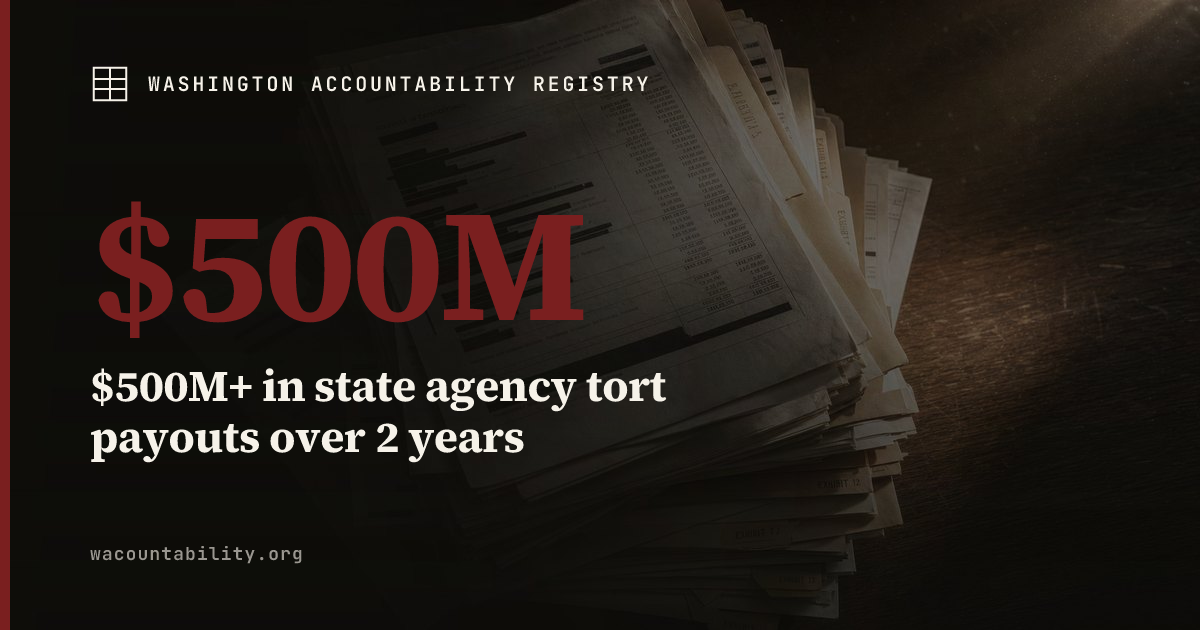
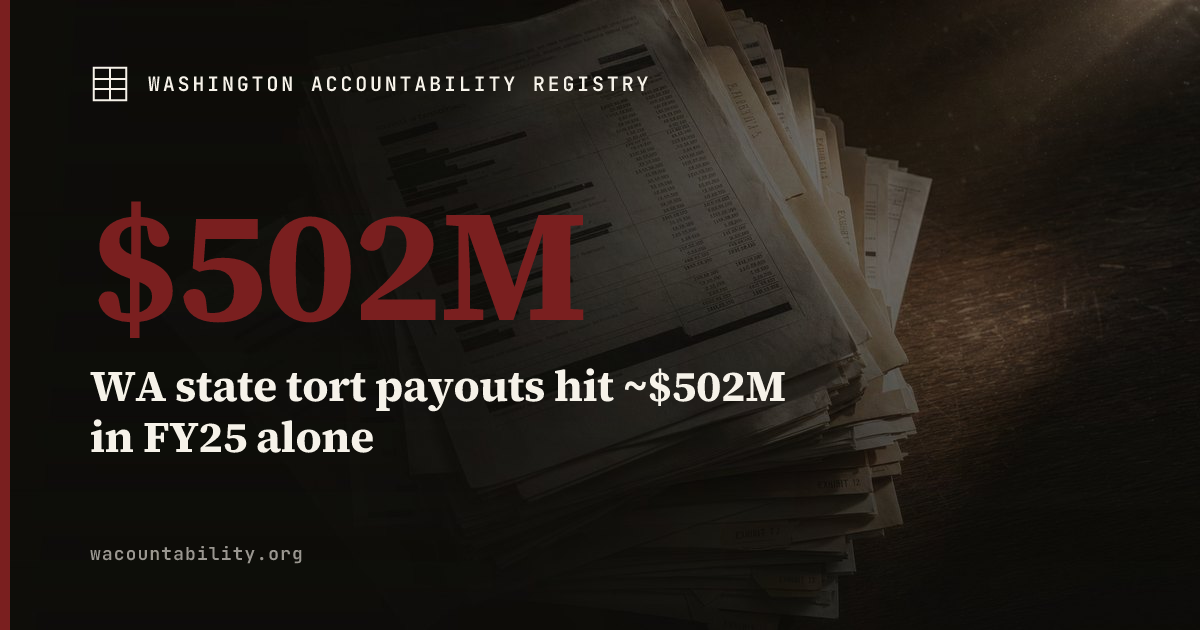
Rewrite WA-2025-TORT-AGGREGATE with FY25 ~$502M lead, $2.5B pending liability, HB 2706 claims commission

Changed region(s): [[0.0617, 0.573, 0.6783, 0.7238], [0.2775, 0.3317, 0.37, 0.5127]]

diff --git a/src/content/cases/2025-state-agency-tort-payouts-aggregate.md b/src/content/cases/2025-state-agency-tort-payouts-aggregate.md
@@ -1,13 +1,13 @@
 ---
 # === IDENTITY ===
 id: WA-2025-TORT-AGGREGATE
-title: "$500M+ in state agency tort payouts over 2 years — Gildon report documents 151 DCYF payouts over $1M, 14 DSHS, 9 DOC, 3 WSP"
+title: "WA state tort payouts hit ~$502M in FY25 alone — bigger than FY23+FY24 combined, $2.5B in pending claims, liability account facing $569M shortfall"
 slug: state-agency-tort-payouts-aggregate
 date_surfaced: 2025-01-19
-date_conduct_start: 2023-01-01
-date_conduct_end: 2025-01-01
-last_updated: 2026-05-24
-last_verified: 2026-05-24
+date_conduct_start: 2018-07-01
+date_conduct_end: 2025-06-30
+last_updated: 2026-05-26
+last_verified: 2026-05-26
 
 # === ACTORS ===
 actors:
@@ -31,6 +31,16 @@ actors:
     title: null
     party: null
     jurisdiction: Washington State
+  - name: Washington State Department of Enterprise Services
+    role_type: agency
+    title: null
+    party: null
+    jurisdiction: Washington State
+  - name: Washington State Office of the Attorney General
+    role_type: agency
+    title: null
+    party: null
+    jurisdiction: Washington State
 
 # === CLASSIFICATION ===
 evidentiary_status: documented
@@ -41,24 +51,57 @@ reforms_implicated:
   - agency_liability_disclosure
 
 # === SCALE ===
-dollars_at_issue: 500000000
-dollars_basis: "Sen. Gildon's compilation of state agency tort payouts over the two-year period ending January 2025 totals more than $500 million. The figure represents adjudicated and settled liabilities aggregated across multiple agencies, sourced from Office of Risk Management data underlying SB 5144 oversight legislation. Over the four-year period, agencies paid 151 DCYF claims over $1M, 14 DSHS, 10 DOT, 9 DOC, 3 WSP, 2 each from DNR and Parks and Recreation Commission, and 1 each from the AG's office, Centralia College, and Seattle Central College."
-dollars_confirmed_loss: 500000000
+dollars_at_issue: 502000000
+dollars_basis: "FY25 (year ending June 30, 2025) tort payouts from the state Liability Account reached approximately $502 million as of June 13, 2025, with roughly two weeks remaining in the fiscal year. Scott Barbara of the Washington Attorney General's Office told Spokane Public Radio that FY25 'is going to be bigger than FY 23 and FY 24 combined.' FY24 payouts were approximately $281 million; FY18 was $72 million. Pending actuarial liability for unresolved claims was estimated at $2.5 billion in June 2024. The Department of Enterprise Services is requesting a $569.5 million one-time backfill to cover the projected 2023-25 biennium liability account shortfall, with projected biennial shortfalls of $1.308B-$1.403B (2025-27) and $2.074B-$3.261B (2027-29) if not funded. The lead figure ($502M) is the single-year FY25 payout total; the cumulative two-year FY24+FY25 total is approximately $783 million."
+dollars_confirmed_loss: 502000000
 
 # === STATUS ===
 legal_status: settled
-outcome_summary: "Not a single case — an aggregation of state agency tort payouts compiled by Sen. Chris Gildon (R-Puyallup) from Office of Risk Management data, released publicly January 19, 2025. Gildon introduced SB 5144, requiring legislative hearings when a state agency tort payout reaches $1 million or more. The bill was referred to the Senate Law and Justice Committee. The underlying payouts reflect final, settled or adjudicated liabilities paid from the state Liability Account."
+outcome_summary: "Aggregate pattern across multiple state agencies. FY25 tort payouts (~$502M as of June 13, 2025) exceeded the combined total of the two prior fiscal years per the AG's office. The Department of Enterprise Services 2026 supplemental budget request seeks a $569.5M one-time appropriation to backfill the Liability Account through end of the 2023-25 biennium. HB 2706 (2026 session, Rep. Ormsby by request of OFM) proposes a claims commission within the Office of Administrative Hearings to adjudicate pre-2020 DCYF tort claims, citing a $1.3B-$1.4B shortfall. Sen. Gildon's SB 5144 (2025) and SB 6239 (2025-26) propose oversight hearings and JLARC review respectively. None of the structural fixes have passed."
 
 # === RESOLUTION TRACKING ===
 remediation_status: in_progress
-remediation_note: "No agency-side remediation tracked. The structural follow-up is legislative, see reform field."
+remediation_note: "No agency-side remediation tracked. DES is treating the shortfall as a budget problem (request $569.5M one-time backfill plus ongoing premium increases). OFM is pursuing structural change for the largest single driver (pre-2020 DCYF claims) via HB 2706. Underlying agency conduct remediation is not separately tracked at the aggregate level."
 reform_status: bill_in_committee
-reform_status_note: "SB 6239 (2025-26 session) introduced; requires JLARC review of the arbitration requirement and report claims, lawsuit, and payout data to the Legislature by December 31, 2032 (Senate Bill Report, January 29, 2026)."
-next_milestone: null
+reform_status_note: "Three legislative vehicles active in the 2025-26 biennium. SB 5144 (Gildon, 2025): joint legislative hearings within 12 months of any $1M+ payout from the Liability Account, with AG context report. SB 6239: requires JLARC review of arbitration requirement and claims/lawsuit/payout reporting to the Legislature by December 31, 2032 (Senate Bill Report, January 29, 2026). HB 2706 (Ormsby by request of OFM, 2026): creates a claims commission within OAH to adjudicate pre-2020 DCYF tort claims, citing the $1.3B-$1.4B shortfall this fiscal biennium."
+next_milestone: "HB 2706 committee action; DES 2026 supplemental budget appropriation decision"
 next_milestone_date: null
 
 # === SOURCES ===
 sources:
+  - tier: 2
+    type: news
+    title: "Washington state lawsuit payouts skyrocket to more than $500M in past year"
+    publisher: Spokane Public Radio / Northwest News Network
+    author: "Jake Goldstein-Street"
+    date: 2025-06-17
+    url: https://www.spokanepublicradio.org/regional-news/2025-06-17/washington-state-lawsuit-payouts-skyrocket-to-more-than-500m-in-past-year
+    archive_url: null
+    quote: "FY 2023 was a record. FY 24 is a record. FY 25 is going to be bigger than FY 23 and FY 24 combined."
+  - tier: 2
+    type: news
+    title: "Washington State's Legal Liability Costs Are Soaring"
+    publisher: Governing
+    date: 2025-06-18
+    url: https://www.governing.com/finance/washington-states-legal-liability-costs-are-soaring
+    archive_url: null
+    quote: "Washington state agencies have paid more than $500 million in lawsuit settlements and judgments in the current fiscal year ending June 30 — more than the prior two fiscal years combined."
+  - tier: 2
+    type: news
+    title: "State liability account shortfall could grow to more than $1.3 billion by end of 2025-27"
+    publisher: Washington Research Council
+    date: 2025-09-16
+    url: https://researchcouncil.org/state-liability-account-shortfall-could-grow-to-more-than-1-3-billion-by-end-of-2025-27/
+    archive_url: null
+    quote: "The Department of Enterprise Services (DES) is requesting a one-time appropriation of $569.5 million to backfill the Liability Account by the end of the 2023-25 biennium, plus ongoing premium increases. Without action, DES projects shortfalls of $1.308 billion to $1.403 billion for 2025-27 and $2.074 billion to $3.261 billion for 2027-29."
+  - tier: 1
+    type: agency_statement
+    title: "HB 2706 — Concerning the resolution of certain tort claims against the state by establishing a claims commission"
+    publisher: Washington State Legislature (House Bill 2706, 2025-2026 session, Rep. Ormsby by request of OFM)
+    date: 2026-01-01
+    url: https://lawfilesext.leg.wa.gov/biennium/2025-26/Htm/Bills/House%20Bills/2706.htm
+    archive_url: null
+    quote: "The state's liability account is facing a projected shortfall of $1.3 billion to $1.4 billion in the 2023-25 fiscal biennium, driven primarily by pre-2020 tort claims involving the Department of Children, Youth, and Families."
   - tier: 2
     type: news
     title: "Half billion in state agency settlement payouts backdrop for WA GOP oversight bill"
@@ -101,31 +144,31 @@ sources:
 
 # === REFORM LINKAGE ===
 reform_argument: |
-  Sen. Gildon's compilation represents the most comprehensive publicly
-  available accounting of state agency tort liability in Washington's
-  recent history. The core finding: over two years, Washington state
-  agencies paid out more than $500 million in tort settlements and
-  judgments, with DCYF alone accounting for approximately 75% of the
-  $1M+ individual payouts (151 of roughly 200 over four years).
+  This is the largest aggregate liability pattern in Washington state
+  history that has been documented in public sources. The FY25 single-year
+  total (~$502M as of mid-June 2025) exceeded the prior two fiscal years
+  combined per the AG's office. The actuarial estimate of pending claim
+  liability was $2.5 billion in June 2024. The Liability Account, which
+  pays these claims, is structurally underfunded — DES projects $1.3B-$1.4B
+  shortfall this biennium and $2.0B-$3.3B by 2027-29 absent intervention.
 
-  The aggregate exposure is not simply the sum of individual bad acts —
-  it reflects structural failures in agency management, oversight, and
-  corrective-action loops. Individual case files in this registry (e.g.,
-  WA-2024-DSHS-SCC-WATER, WA-2024-OSPI-IDEA) document specific failures;
-  the aggregate case documents the pattern. Crucially, no statutory
-  mechanism currently exists requiring agencies to explain large tort
-  payouts to the Legislature, connect them to corrective action plans,
-  or disclose aggregate liability exposure in a consistent format.
+  No statutory mechanism currently requires agencies to disclose, explain,
+  or respond to large tort payouts on a systematic basis. The Legislature
+  learns about major payouts when individual cases surface in media or
+  when legislators independently request data from the Office of Risk
+  Management. The Gildon compilation (January 2025) was the first
+  publicly available accounting; the FY25 escalation became public through
+  June 2025 press reporting and the DES 2026 budget request.
 
-  SB 5144 (Gildon, 2025) would require joint legislative hearings
-  within 12 months of any final judgment or settlement of $1 million or
-  more paid from the state Liability Account, with the Attorney General
-  reporting on facts and context and consideration of policy changes to
-  prevent recurrence. The reform argument: aggregate liability disclosure
-  tied to corrective action should be a statutory floor, not a matter of
-  legislative initiative from the opposition caucus. An independent
-  inspector general with cross-agency authority would provide a continuous
-  oversight mechanism rather than a reactive post-payout hearing.
+  Three reform threads run through this case. SB 5144 (Gildon, 2025)
+  proposes joint legislative hearings within 12 months of any $1M+ payout.
+  SB 6239 (2025-26) proposes JLARC review and routine reporting through
+  2032. HB 2706 (2026, Ormsby by request of OFM) proposes a claims
+  commission within OAH to adjudicate pre-2020 DCYF claims at lower cost.
+  None of these address the underlying agency conduct that drives the
+  payouts. An independent inspector general with cross-agency authority
+  to investigate management failures before they become $1M+ tort payouts
+  remains the most direct structural response.
   See [reform: independent_inspector_general],
   [reform: agency_liability_disclosure].
 
@@ -141,24 +184,59 @@ tags:
   - dshs
   - doc
   - wsp
+  - des
+  - liability_account
   - oversight_legislation
+  - hb_2706
+  - sb_5144
+  - sb_6239
 ---
 
-**Sen. Chris Gildon (R-Puyallup) released a compilation in January 2025 showing Washington state agencies paid out more than $500 million in tort settlements and judgments over two years — with the Department of Children, Youth and Families alone accounting for approximately three-quarters of the million-dollar-plus individual payouts over four years.**
+**Washington state tort payouts from the Liability Account reached approximately $502 million in FY25 alone (year ending June 30, 2025) — more than the prior two fiscal years combined per the AG's office. Pending claims liability is estimated at $2.5 billion. The Liability Account faces a projected $569.5 million shortfall this biennium and $1.3B-$1.4B for 2025-27, with HB 2706 (2026) proposing a claims commission to adjudicate pre-2020 DCYF tort claims at lower cost.**
 
 ## What this record is
 
-This is an aggregate pattern case, not a single lawsuit or settlement. It documents Sen. Gildon's January 2025 compilation of state agency tort payouts drawn from Office of Risk Management data, released to support SB 5144, which would require legislative oversight hearings when a state agency incurs a tort payout of $1 million or more.
+This is an aggregate pattern case documenting Washington state's tort liability trajectory through the Liability Account. It pulls together: (1) the FY25 escalation revealed in June 2025 press reporting; (2) Sen. Gildon's January 2025 compilation of four-year payout data; (3) the Department of Enterprise Services 2026 supplemental budget request quantifying the structural shortfall; (4) the Washington Research Council analysis of projected biennial shortfalls; and (5) the three legislative vehicles active in the 2025-26 biennium (SB 5144, SB 6239, HB 2706).
 
-Individual cases in this registry document specific failures (see Related Cases below). This record documents the pattern — the aggregate fiscal exposure, the agency breakdown, and the policy argument for structural reform.
+Individual cases in this registry document specific failures (see Related Cases below). This record documents the pattern, the fiscal trajectory, and the policy responses in motion.
 
-## The numbers
+## FY25 escalation — the lead number
 
-Per [Gildon's emailed press release as reported by the Washington Examiner and Denver Gazette (The Center Square, Jan. 19, 2025)](https://www.washingtonexaminer.com/news/3292139/half-billion-in-state-agency-settlement-payouts-backdrop-for-wa-gop-oversight-bill/):
+Per [Spokane Public Radio (Jake Goldstein-Street, June 17, 2025)](https://www.spokanepublicradio.org/regional-news/2025-06-17/washington-state-lawsuit-payouts-skyrocket-to-more-than-500m-in-past-year) and [Governing (June 18, 2025)](https://www.governing.com/finance/washington-states-legal-liability-costs-are-soaring), as of June 13, 2025 — with about two weeks left in fiscal year 2025 — Washington state had paid out approximately **$502 million** in tort settlements and judgments through the Liability Account.
 
-**Two-year total (ending Jan. 2025):** More than $500 million in tort payouts across all state agencies.
+Scott Barbara of the Washington Attorney General's Office characterized the trajectory directly: **"FY 2023 was a record. FY 24 is a record. FY 25 is going to be bigger than FY 23 and FY 24 combined."**
 
-**Four-year breakdown — payouts of $1 million or more:**
+The multi-year progression:
+
+| Fiscal Year | Tort payouts | Source |
+|---|---:|---|
+| FY18 | ~$72M | [Spokane Public Radio](https://www.spokanepublicradio.org/regional-news/2025-06-17/washington-state-lawsuit-payouts-skyrocket-to-more-than-500m-in-past-year) / [Governing](https://www.governing.com/finance/washington-states-legal-liability-costs-are-soaring) |
+| FY24 | ~$281M | [Spokane Public Radio](https://www.spokanepublicradio.org/regional-news/2025-06-17/washington-state-lawsuit-payouts-skyrocket-to-more-than-500m-in-past-year) / [Governing](https://www.governing.com/finance/washington-states-legal-liability-costs-are-soaring) |
+| FY25 (through June 13, 2025) | ~$502M | [Spokane Public Radio](https://www.spokanepublicradio.org/regional-news/2025-06-17/washington-state-lawsuit-payouts-skyrocket-to-more-than-500m-in-past-year) / [Governing](https://www.governing.com/finance/washington-states-legal-liability-costs-are-soaring) |
+
+Defense costs are climbing in parallel. DES legal defense costs were approximately $50M in FY24 and $56M+ in FY25, per the same reporting. There have been more than 3,800 tort claims filed against the state since July 2024.
+
+## Pending liability — the $2.5B overhang
+
+Beyond claims already paid, an [actuarial estimate from June 2024 puts pending claims liability at $2.5 billion](https://www.spokanepublicradio.org/regional-news/2025-06-17/washington-state-lawsuit-payouts-skyrocket-to-more-than-500m-in-past-year). The driver, per state officials and HB 2706 findings, is largely pre-2020 conduct at DCYF.
+
+Per Allison Krutsinger, DCYF Public Affairs Director, nearly two-thirds of DCYF claims paid in FY24 involved incidents before 2000. The cases reflect long-tail liability from historical foster care and child welfare failures rather than current agency performance — though that distinction does not change the fiscal exposure.
+
+## Liability Account shortfall — DES 2026 budget request
+
+The Liability Account pays tort claims from premiums charged to state agencies. With payouts spiking, the account is structurally underfunded. The [Washington Research Council (September 16, 2025)](https://researchcouncil.org/state-liability-account-shortfall-could-grow-to-more-than-1-3-billion-by-end-of-2025-27/) summarizes the DES 2026 supplemental budget request:
+
+- **2023-25 biennium shortfall:** $569.5M (DES one-time appropriation request)
+- **2025-27 projected shortfall (best case):** $1.308 billion
+- **2025-27 projected shortfall (worst case):** $1.403 billion
+- **2027-29 projected shortfall (best case):** $2.074 billion
+- **2027-29 projected shortfall (worst case):** $3.261 billion
+
+The 2025-27 enacted biennial budget already imposed $330.8M in Liability Account premiums on state agencies, with DCYF paying $205.8M of that total. Premiums get baked into agency operating budgets, which means tort liability competes with program funding within each agency's appropriation.
+
+## Gildon four-year breakdown — agencies of $1M+ payouts
+
+Sen. Chris Gildon (R-Puyallup), Senate Republican budget leader, released a compilation in January 2025 from Office of Risk Management data. Over the four years ending January 2025:
 
 | Agency | Payouts ≥ $1M |
 |---|---:|
@@ -176,32 +254,46 @@ Per [Gildon's emailed press release as reported by the Washington Examiner and D
 
 DCYF's 151 payouts represent approximately 75% of all payouts over $1 million in the four-year period, [per the Senate Republican Caucus](https://src.wastateleg.org/ave-washington/).
 
-## Legislative context
+## Legislative responses — three vehicles, none enacted
 
-Sen. Gildon — the Senate Republican budget leader — [introduced SB 5144](https://fastdemocracy.com/bill-search/wa/2025-2026/bills/WAB00022156/) on January 7, 2025, prefiled before the legislative session opened. The bill would require joint hearings of relevant policy and fiscal committees within 12 months of any final judgment or settlement of $1 million or more paid from the state Liability Account, with an Attorney General report on the facts and context and consideration of policy modifications to prevent future liability. The bill was referred to the Senate Law and Justice Committee.
+**SB 5144 (Gildon, 2025).** [Introduced January 7, 2025](https://fastdemocracy.com/bill-search/wa/2025-2026/bills/WAB00022156/). Requires joint hearings of relevant policy and fiscal committees within 12 months of any final judgment or settlement of $1 million or more paid from the state Liability Account, with an AG report on facts, context, and policy modifications. Referred to Senate Law and Justice Committee. Gildon's framing: aggregate liability disclosure tied to corrective action should be a statutory floor, not dependent on opposition caucus data requests.
 
-Gildon cited the SCC brown water settlement (WA-2024-DSHS-SCC-WATER) specifically: "When we filed the bill, we hadn't even heard of this 'brown water' case involving the Special Commitment Center and McNeil Island, but now there are 7.3 million more reasons to take action."
+**SB 6239 (2025-26 session).** [Senate Bill Report dated January 29, 2026](https://lawfilesext.leg.wa.gov/biennium/2025-26/Pdf/Bill%20Reports/Senate/6239%20SBR%20WM%20OC%2026.pdf). Requires JLARC review of the arbitration requirement and report claims, lawsuit, and payout data to the Legislature by December 31, 2032. Heard in Senate Ways and Means.
 
-He characterized the aggregate as follows: "In looking over the last two years alone, we see the state paying out a little over $500 million. That's a half billion because of bad behavior by state employees."
+**HB 2706 (2026, Ormsby by request of OFM).** [Bill text](https://lawfilesext.leg.wa.gov/biennium/2025-26/Htm/Bills/House%20Bills/2706.htm). Creates a claims commission within the Office of Administrative Hearings to adjudicate pre-2020 DCYF tort claims, with the explicit finding that "the state's liability account is facing a projected shortfall of $1.3 billion to $1.4 billion in the 2023-25 fiscal biennium, driven primarily by pre-2020 tort claims involving the Department of Children, Youth, and Families." The legislative theory: a specialized adjudicative process for the long-tail pre-2020 DCYF cases reduces both payout amounts and defense costs versus jury trials in Thurston County Superior Court.
 
 ## Why it's in the registry
 
-The aggregate liability pattern is itself a governance finding, separate from any individual case. Washington has no statutory mechanism requiring agencies to disclose, explain, or respond to large tort payouts on a systematic basis. The Legislature learns about major payouts when individual cases surface in media or when legislators independently request data from the Office of Risk Management — not through any routine reporting obligation.
+The aggregate is a governance finding distinct from any single case. Three observations matter:
 
-The $500M+ figure over two years represents direct costs to taxpayers from agency management failures across at least a dozen agencies. The DCYF concentration (75% of $1M+ payouts) reflects the known systemic challenges in the child-welfare and foster-care system — challenges documented in JLARC reviews and federal oversight — but quantifies them in fiscal terms that cross-reference the broader budget picture.
+**First, the trajectory.** FY18 to FY25 is roughly a 7x increase in single-year tort payouts. FY25 alone exceeded the prior two fiscal years combined. This is not a one-time spike; it is a sustained acceleration.
+
+**Second, the concentration.** DCYF accounts for roughly three-quarters of $1M+ payouts and is the principal driver of pending liability. The fiscal exposure is concentrated in one agency's historical conduct — much of it pre-2000 — but flows through to the entire state operating budget via Liability Account premiums.
+
+**Third, the structural disclosure gap.** No routine reporting obligation requires agencies to surface large tort payouts, connect them to corrective action, or disclose aggregate exposure in a consistent format. The Legislature learns about the trajectory through press reports (the FY25 figure surfaced through Spokane Public Radio, not a state filing), opposition caucus compilations (the Gildon 2025 release), and budget cycle disclosures (the DES 2026 request). HB 2706 addresses the pre-2020 DCYF backlog as a fiscal triage problem. SB 5144 and SB 6239 address disclosure. None directly address the agency conduct that drove the historical claims.
 
 ## Reform implication
 
-Two reforms apply. First, aggregate liability disclosure: state agencies should be statutorily required to report large tort payouts to the Legislature within a fixed period, with a mandatory explanation connecting the payout to a corrective action plan. This is the substance of SB 5144; the reform argument is that it should pass and be strengthened rather than relying on an opposition caucus data request to surface the information. Second, independent inspector general: a cross-agency IG with authority to investigate management failures before they become $1M+ tort payouts — and to publish findings — would provide a continuous oversight mechanism rather than reactive post-payout hearings. See [reform: independent_inspector_general], [reform: agency_liability_disclosure].
+Three reforms apply.
+
+**Aggregate liability disclosure** (SB 5144 / SB 6239 framework): mandatory legislative reporting of $1M+ payouts within a fixed period, with AG context and required corrective action plans. This addresses the information gap but does nothing to prevent payouts.
+
+**Independent inspector general** (cross-agency): an IG with statutory authority to investigate management failures before they become $1M+ tort payouts, and to publish findings, would provide continuous upstream oversight rather than reactive post-payout hearings.
+
+**Claims process reform** (HB 2706): a specialized adjudicative track for pre-2020 DCYF claims may reduce per-claim costs and shorten resolution time. This is a fiscal response to a defined backlog rather than a structural reform to agency conduct.
+
+The honest read: HB 2706 may pass because it has OFM behind it and a defined fiscal problem to solve. SB 5144/SB 6239 are sponsor-driven and face the usual partisan friction. An independent IG would require bipartisan momentum that does not currently exist. The Liability Account will continue absorbing the trajectory until one or more of these mechanisms takes hold. See [reform: independent_inspector_general], [reform: agency_liability_disclosure].
 
 ## Related cases in this registry
 
 - **WA-2024-DSHS-SCC-WATER** — One of the 14 DSHS payouts; $7.325M class-action settlement over contaminated drinking water at the Special Commitment Center.
 - **WA-2024-OSPI-IDEA** — Federal settlement with OSPI; compensatory education costs will flow to school districts from a systemic IDEA compliance failure.
-- Other DCYF-specific cases involving foster-care and child-welfare failures are documented separately; the 151 DCYF payouts are the largest aggregate category.
+- Other DCYF-specific cases involving foster-care and child-welfare failures are documented separately; the 151 DCYF payouts are the largest aggregate category and the dominant driver of pending liability.
 
 ## Open follow-ups
 
-- Office of Risk Management underlying dataset not publicly posted; the Gildon data was released through press release and media reporting rather than a public database.
-- SB 5144 legislative status after Law and Justice Committee referral not confirmed as of this record's last update.
-- 2025 fiscal year payout total (described as "on pace to be even more expensive") not yet quantified.
+- Final FY25 figure (year-end June 30, 2025) not yet published; the ~$502M number is as of June 13, 2025.
+- Office of Risk Management underlying dataset not publicly posted in machine-readable form.
+- HB 2706 committee disposition and 2026 supplemental budget appropriation outcome.
+- SB 5144 and SB 6239 floor action status.
+- DCYF current-year (post-2020) tort claim trend separated from pre-2020 long-tail not separately published.
